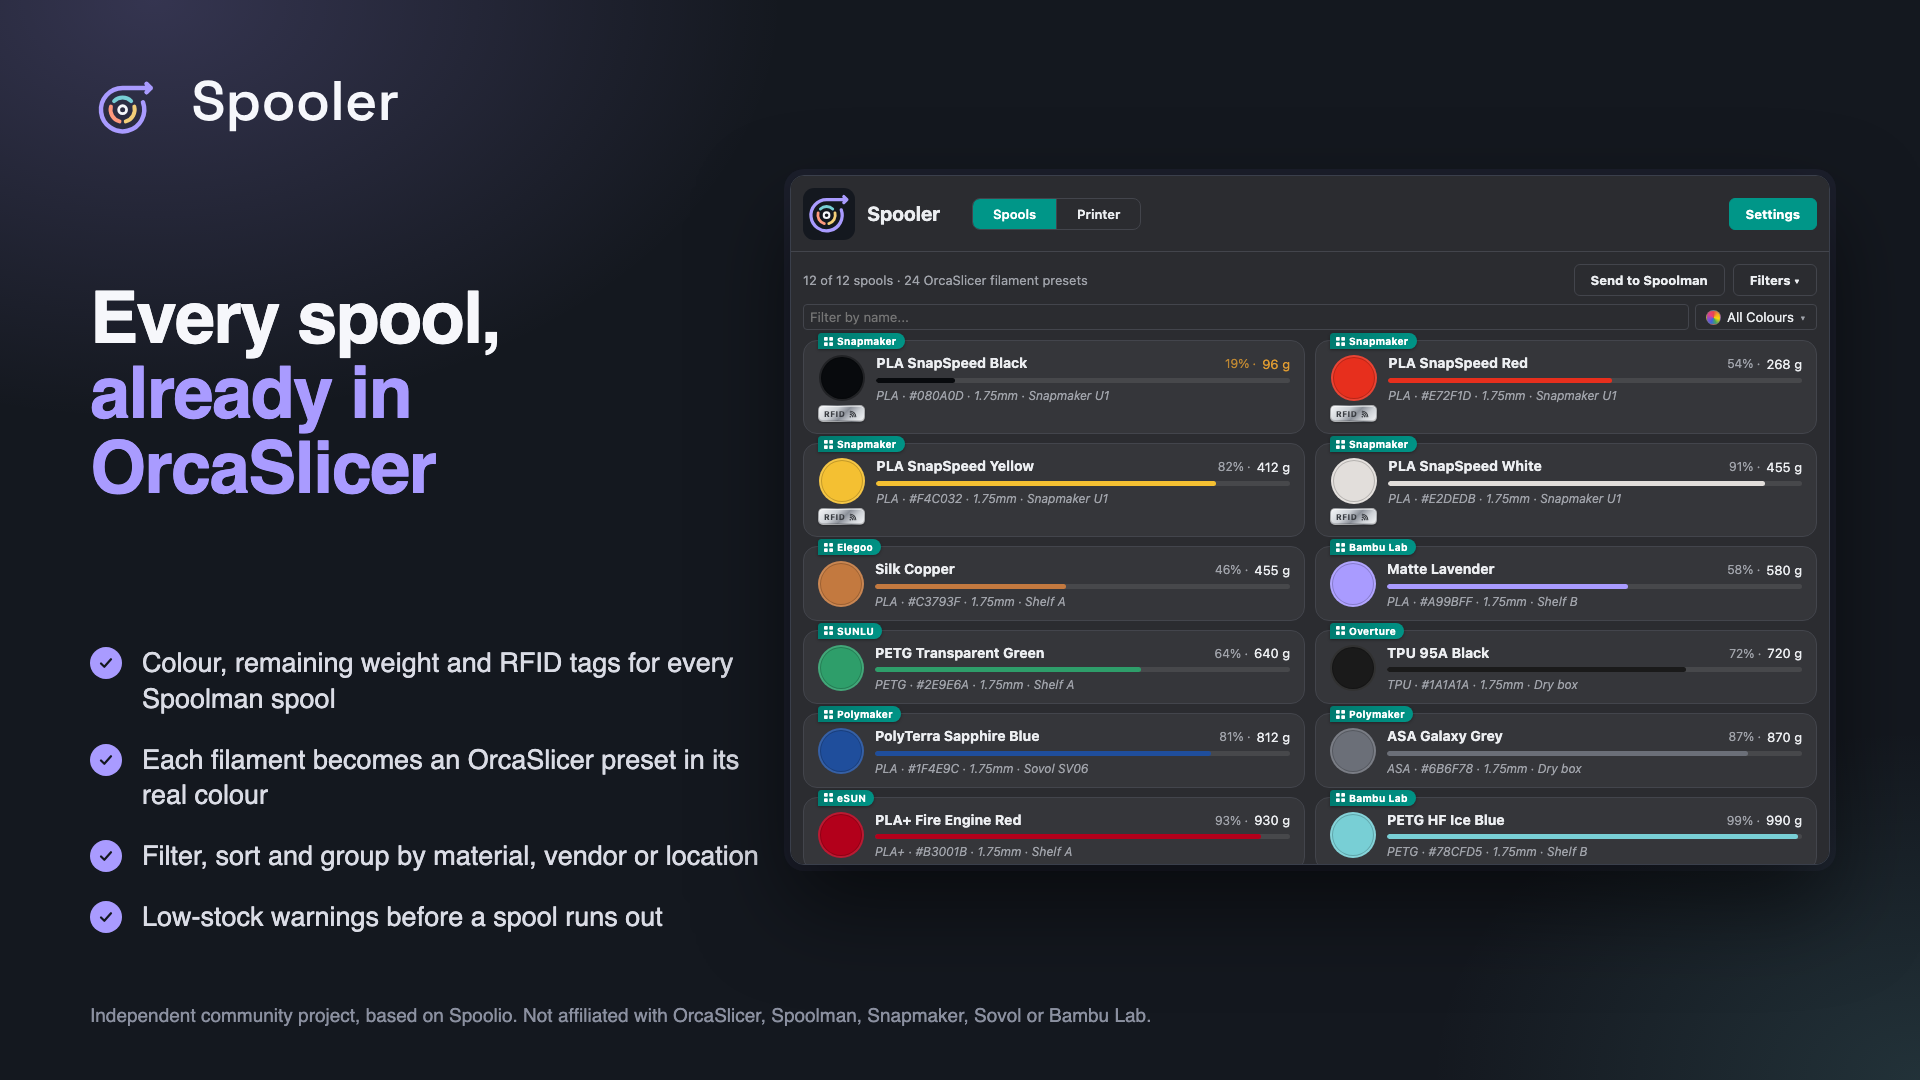
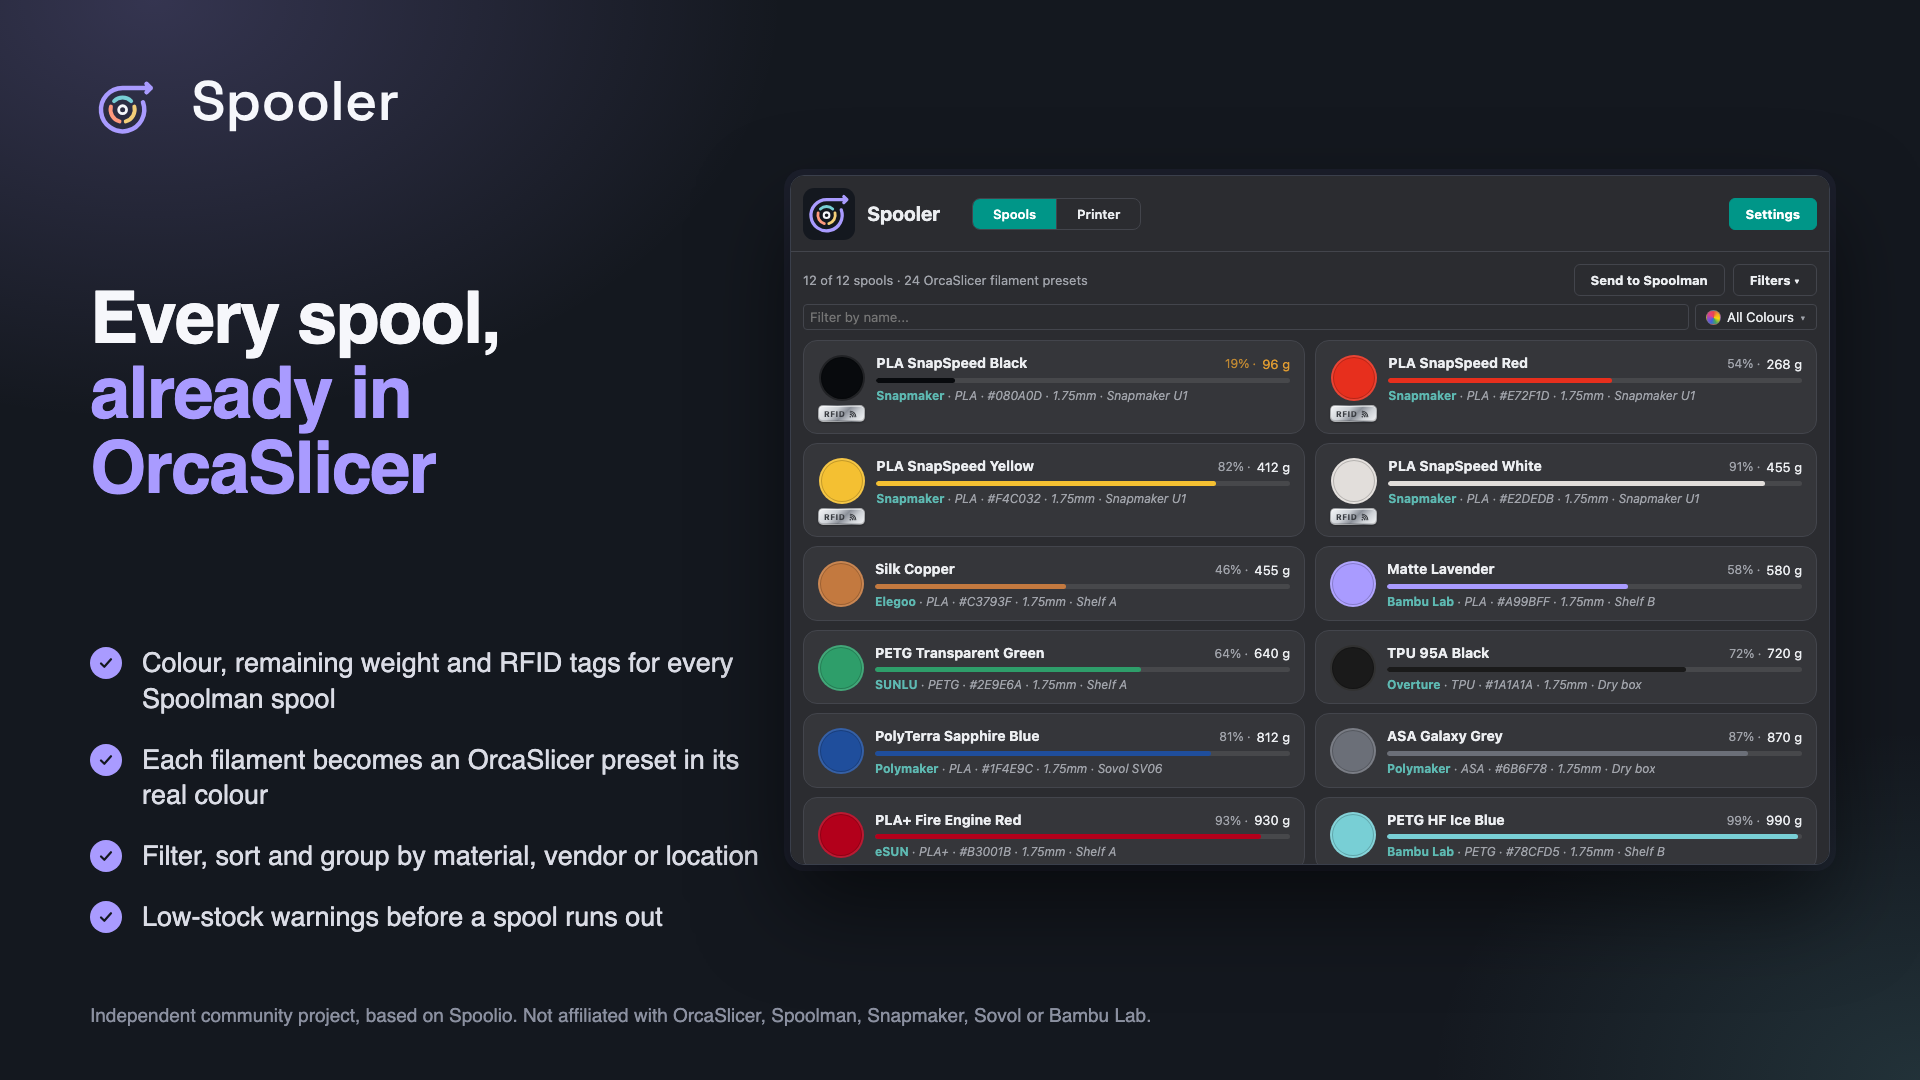
feat: one card for single spools and groups, manufacturer inside the card (0.12.1)

diff --git a/plugin/spooler/spooler_any.py b/plugin/spooler/spooler_any.py
@@ -6,7 +6,7 @@
 # name = "Spooler"
 # description = "Spoolman inventory for OrcaSlicer: auto-synced filament profiles and live printer slots"
 # author = "bloodf (fork of Spoolio by Dan J Moore)"
-# version = "0.12.0"
+# version = "0.12.1"
 # ///
 
 import asyncio
@@ -48,7 +48,7 @@ except (ImportError, AttributeError):
 _SLICING = hasattr(getattr(orca, "slicing", None), "SlicingPipelineCapabilityBase")
 
 PLUGIN_NAME = "Spooler"
-PLUGIN_VERSION = "0.12.0"
+PLUGIN_VERSION = "0.12.1"
 # Stamped per operating system by scripts/build.py.
 BUILD_TARGET = "any"
 
@@ -4070,20 +4070,7 @@ MAIN_PAGE = """
     padding: 13px 14px 11px;
     margin-bottom: 9px;
   }
-  .spool-tag {
-    position: absolute; top: -8px; left: 14px;
-    display: flex; align-items: center; gap: 4px;
-    max-width: calc(100% - 28px);
-    padding: 2px 8px 2px 6px;
-    border-radius: 4px 9px 9px 0;
-    background: var(--orca-accent);
-    background: linear-gradient(135deg, color-mix(in srgb, var(--orca-accent) 80%, black), var(--orca-accent));
-    color: var(--orca-accent-fg);
-    font-size: 10px; font-weight: 700; letter-spacing: 0.02em;
-    box-shadow: 0 1px 3px rgba(0, 0, 0, 0.35);
-  }
-  .spool-tag span { overflow: hidden; text-overflow: ellipsis; white-space: nowrap; }
-  .spool-tag svg { width: 9px; height: 9px; flex-shrink: 0; }
+  .spool-vendor { font-style: normal; font-weight: 700; color: color-mix(in srgb, var(--orca-accent) 60%, var(--orca-fg) 40%); }
   .spool-body { display: flex; gap: 11px; align-items: flex-start; }
   .spool-swatch-col {
     display: flex; flex-direction: column; align-items: center; gap: 4px;
@@ -4130,14 +4117,25 @@ MAIN_PAGE = """
   }
   .head-card .head-line { font-style: normal; margin-top: 2px; }
   .head-card .head-preset { opacity: 0.8; font-style: italic; }
-  .group.stack > .group-card {
-    background: var(--orca-border); border-radius: 8px; padding: 10px 12px; margin-bottom: 6px;
+  .stack-head { cursor: pointer; }
+  .stack-head:hover, .stack-head:focus-visible { border-color: color-mix(in srgb, var(--orca-accent) 55%, var(--orca-border) 45%); outline: none; }
+  .stack-head .spool-swatch { position: relative; box-shadow: 4px -3px 0 -1px color-mix(in srgb, var(--orca-fg) 14%, var(--orca-bg) 86%), inset 0 0 0 1px rgba(0, 0, 0, 0.2); }
+  .stack-count {
+    position: absolute; right: -6px; bottom: -4px; min-width: 18px; height: 18px; padding: 0 5px;
+    border-radius: 99px; background: var(--orca-accent); color: var(--orca-accent-fg);
+    font-size: 10px; font-weight: 800; line-height: 18px; text-align: center; box-shadow: 0 0 0 2px var(--orca-bg);
   }
-  .group.stack > .group-card .cdot { width: 28px; height: 28px; }
-  .group.stack > .group-card .group-name { font-size: 14px; }
-  .group-card .group-bar { width: auto; min-width: 90px; max-width: 45%; }
-  .group-card .group-bar .group-meta { white-space: nowrap; }
-  .group.stack > .group-items { padding-left: 14px; border-left: 2px solid var(--orca-border); margin: 0 0 8px 12px; }
+  .stack-arrow { display: inline-flex; color: var(--orca-muted); transition: transform 0.15s ease; }
+  .stack-arrow svg { width: 14px; height: 14px; }
+  .group.stack:not(.collapsed) .stack-arrow { transform: rotate(90deg); color: var(--orca-accent); }
+  .group.stack { margin-bottom: 0; }
+  .group.stack:not(.collapsed) {
+    margin-bottom: 9px; padding: 6px 6px 0; border-radius: 17px;
+    background: color-mix(in srgb, var(--orca-fg) 3%, var(--orca-bg) 97%);
+    border: 1px solid color-mix(in srgb, var(--orca-accent) 35%, var(--orca-border) 65%);
+  }
+  .group.stack:not(.collapsed) > .stack-head { border-color: transparent; background: transparent; margin-bottom: 4px; }
+  .group.stack > .group-items { padding: 0 6px; }
   .spool-dup {
     margin-left: 8px; padding: 1px 8px; border-radius: 99px; vertical-align: middle;
     border: 1px solid var(--orca-border); color: var(--orca-muted);
@@ -4209,9 +4207,13 @@ MAIN_PAGE = """
   .group-card .group-bar-fill.low { background: #d9534f; }
   .group-items { padding-left: 4px; }
   .group.collapsed .group-items { display: none; }
-  #list.cols-2, #list.cols-2 .group-items { display: grid; grid-template-columns: repeat(2, minmax(0, 1fr)); column-gap: 10px; align-items: start; }
-  #list.cols-2 > .group, #list.cols-2 > .empty, #list.cols-2 .group.stack { grid-column: 1 / -1; }
+  #list.cols-2, #list.cols-2 .group-items { display: grid; grid-template-columns: repeat(2, minmax(0, 1fr)); column-gap: 10px; align-items: stretch; }
+  #list.cols-2 > .group:not(.stack), #list.cols-2 > .empty, #list.cols-2 .group.stack:not(.collapsed) { grid-column: 1 / -1; }
   #list.cols-2 .group.collapsed .group-items { display: none; }
+  #list.cols-2 { align-items: stretch; }
+  #list.cols-2 > .spool-card, #list.cols-2 .group-items > .spool-card { box-sizing: border-box; }
+  #list.cols-2 > .group.stack.collapsed { display: flex; flex-direction: column; }
+  #list.cols-2 > .group.stack.collapsed > .stack-head { flex: 1; }
   @media (max-width: 640px) { #list.cols-2, #list.cols-2 .group-items { grid-template-columns: minmax(0, 1fr); } }
   .tabs { display: inline-flex; margin: 0 0 12px; border: 1px solid var(--orca-border); border-radius: 8px; overflow: hidden; }
   .tabs[hidden], #page-spools[hidden], #page-printer[hidden], #page-stats[hidden] { display: none; }
@@ -5682,6 +5684,7 @@ MAIN_PAGE = """
       const material = filament.material || "";
       const vendorName = vendor.name || "";
       const subtitleParts = [];
+      if (vendorName && shown("vendor")) subtitleParts.push('<span class="spool-vendor">' + esc(vendorName) + '</span>');
       if (material && shown("material")) subtitleParts.push(esc(material));
       if (filament.color_hex && shown("colour_code")) subtitleParts.push("#" + esc(filament.color_hex.replace(/^#/, "").toUpperCase()));
       if (typeof filament.diameter === "number" && shown("diameter")) subtitleParts.push(filament.diameter + "mm");
@@ -5708,17 +5711,6 @@ MAIN_PAGE = """
       const chipHtml = (plateLabel ? '<span class="plate-chip">On This Plate \u00b7 ' + plateLabel + '</span>' : '') +
         (where ? '<span class="use-chip" title="Loaded in ' + esc(where) + '">In Use \u00b7 ' + esc(where) + '</span>' : '');
       const percentTitle = percent === null ? "Remaining unknown" : percent + "% remaining";
-      const tagHtml = vendorName && shown("vendor")
-        ? '<div class="spool-tag">' +
-            '<svg viewBox="0 0 12 12" fill="currentColor">' +
-              '<rect x="0" y="0" width="5" height="5" rx="1"></rect>' +
-              '<rect x="7" y="0" width="5" height="5" rx="1"></rect>' +
-              '<rect x="0" y="7" width="5" height="5" rx="1"></rect>' +
-              '<rect x="7" y="7" width="5" height="5" rx="1"></rect>' +
-            '</svg>' +
-            '<span>' + esc(vendorName) + '</span>' +
-          '</div>'
-        : '';
       const tip = [name, vendorName, remainingLabel + (typeof original === "number" ? " of " + formatWeight(original) : "") + " left"].filter(Boolean).join(" \u00b7 ");
       const tint = lowTint(remaining);
       const searchQuery = [vendorName, s.lot_nr || name].filter(Boolean).join(" ");
@@ -5743,7 +5735,6 @@ MAIN_PAGE = """
         : '';
       return (
         '<div class="spool-card" title="' + tip.replace(/"/g, "&quot;") + '">' +
-          tagHtml +
           '<div class="spool-body">' +
             '<div class="spool-swatch-col">' +
               '<div class="spool-swatch" style="background:' + color + ring + '"></div>' +
@@ -5796,6 +5787,7 @@ MAIN_PAGE = """
         : wMode === "percent" ? (percent === null ? remainingLabel : percentLabel)
         : remainingLabel + ' \\u00b7 ' + percentLabel;
       const subLabel = [group.sub, count].filter(Boolean).join(" \\u00b7 ");
+      if (stack) return stackHtml(group, collapsed, percent, remainingLabel, count);
       return (
         '<div class="group' + (stack ? " stack" : "") + (collapsed ? " collapsed" : "") + '" data-key="' + esc(group.key) + '">' +
           '<div class="group-card" role="button" tabindex="0" aria-expanded="' + !collapsed + '">' +
@@ -5810,6 +5802,45 @@ MAIN_PAGE = """
           '</div>' +
           '<div class="group-items">' + (stack ? group.items.map(function (s) { return spoolRowHtml(s, true); }).join("")
             : listHtml(group.items)) + '</div>' +
+        '</div>'
+      );
+    }
+
+    // A stack looks like a single spool's card: same swatch, title, weight, bar and detail line,
+    // with the number of spools on the swatch and an arrow to open it.
+    function stackHtml(group, collapsed, percent, remainingLabel, count) {
+      const f = group.items[0].filament || {};
+      const vendorName = (f.vendor || {}).name || "";
+      const parts = [];
+      if (vendorName && shown("vendor")) parts.push('<span class="spool-vendor">' + esc(vendorName) + '</span>');
+      if (f.material && shown("material")) parts.push(esc(f.material));
+      parts.push(count);
+      if (group.used) parts.push(group.used + " in use");
+      const wHtml = percent === null || wMode === "grams" ? remainingLabel
+        : wMode === "percent" ? percent + "%"
+        : '<span class="spool-pct">' + percent + '% \u00b7</span>' + remainingLabel;
+      const ring = swatchCols(f).length > 1 ? ";border-color:" + swatchMain(f) : "";
+      return (
+        '<div class="group stack' + (collapsed ? " collapsed" : "") + '" data-key="' + esc(group.key) + '">' +
+          '<div class="spool-card stack-head" role="button" tabindex="0" aria-expanded="' + !collapsed + '">' +
+            '<div class="spool-body">' +
+              '<div class="spool-swatch-col"><div class="spool-swatch" style="background:' + group.color + ring + '">' +
+                '<span class="stack-count">' + group.items.length + '</span></div></div>' +
+              '<div class="spool-main">' +
+                '<div class="spool-top">' +
+                  '<div class="spool-title">' + esc(group.label) + '</div>' +
+                  '<div class="spool-weight">' + wHtml +
+                    '<span class="stack-arrow"><svg viewBox="0 0 24 24" fill="none" stroke="currentColor" stroke-width="2.4" stroke-linecap="round" stroke-linejoin="round"><path d="M9 6l6 6-6 6"></path></svg></span>' +
+                  '</div>' +
+                '</div>' +
+                (shown("bar") ? '<div class="spool-bar-track" title="' + (percent === null ? "Remaining unknown" : percent + "% remaining") + '">' +
+                  '<div class="spool-bar-fill" style="width:' + (percent === null ? 0 : percent) + '%;background:' + swatchMain(f) + '"></div>' +
+                '</div>' : '') +
+                '<div class="spool-subtitle"><span class="sub-text">' + parts.join(" \u00b7 ") + '</span></div>' +
+              '</div>' +
+            '</div>' +
+          '</div>' +
+          '<div class="group-items">' + group.items.map(function (s) { return spoolRowHtml(s, true); }).join("") + '</div>' +
         '</div>'
       );
     }
@@ -5841,9 +5872,7 @@ MAIN_PAGE = """
         if (items.length < 2) return spoolRowHtml(items[0]);
         const f = items[0].filament || {};
         const group = {
-          key: e[0], label: f.name || ("Spool #" + items[0].id), items: items, color: swatch(f),
-          sub: [shown("vendor") ? (f.vendor || {}).name : "", shown("material") ? f.material : "",
-            used ? used + " in use" : ""].filter(Boolean).join(" \u00b7 "),
+          key: e[0], label: f.name || ("Spool #" + items[0].id), items: items, color: swatch(f), used: used,
         };
         return groupRowHtml(group, !openStacks.has(group.key), true);
       }).join("");
@@ -5856,7 +5885,8 @@ MAIN_PAGE = """
       if (set.has(key)) set.delete(key); else set.add(key);
       const collapsed = groupEl.classList.toggle("collapsed");
       card.setAttribute("aria-expanded", String(!collapsed));
-      card.querySelector(".arrow").innerHTML = collapsed ? "&#9656;" : "&#9662;";
+      const arrow = card.querySelector(".arrow");
+      if (arrow) arrow.innerHTML = collapsed ? "&#9656;" : "&#9662;";
     }
 
     function renderGrouped(spools, mode) {
@@ -5972,7 +6002,7 @@ MAIN_PAGE = """
     });
 
     listEl.addEventListener("keydown", function (e) {
-      const card = e.target.closest(".group-card");
+      const card = e.target.closest(".group-card, .stack-head");
       if (card && (e.key === "Enter" || e.key === " ")) { e.preventDefault(); toggleGroup(card); }
     });
 
@@ -5993,7 +6023,7 @@ MAIN_PAGE = """
     });
 
     listEl.addEventListener("click", function (e) {
-      const card = e.target.closest(".group-card");
+      const card = e.target.closest(".group-card, .stack-head");
       if (card) { toggleGroup(card); return; }
       const btn = e.target.closest(".spool-cart");
       if (btn) {

diff --git a/tests/test_display.py b/tests/test_display.py
@@ -144,6 +144,13 @@ console.log(JSON.stringify({{list, card}}));
         self.assertIn("In Use · U1 · T1", out["list"])
         self.assertLess(out["list"].index("980 g"), out["list"].index("400 g"))  # spool 2 is loaded: first
 
+    def test_groups_and_single_spools_share_one_card(self):
+        out = self.run_page(self.scenario({}))["list"]
+        self.assertNotIn("spool-tag", out)  # no manufacturer badge on top of the card
+        self.assertIn('class="spool-card stack-head"', out)
+        self.assertEqual(out.count('<span class="spool-vendor">Acme</span>'), 3)  # group and both spools
+        self.assertIn('<span class="stack-count">2</span>', out)
+
     def test_slot_card_has_the_spools_details(self):
         card = self.run_page(self.scenario({}))["card"]
         for text in ("Acme", "PLA", "#111111", "980 g of 1,000 g left", "Spool #2", "Shelf B",

diff --git a/CHANGELOG.md b/CHANGELOG.md
@@ -3,6 +3,16 @@
 Spooler is a fork of [Spoolio](https://github.com/danm1989/spoolio-orcaslicer); entries before
 0.9.0 are Spoolio's.
 
+## [0.12.1] - Unreleased
+
+### Changed
+- Spool cards are redrawn: a group of spools of the same filament now looks exactly like a single
+  spool's card (swatch, name, weight, bar and detail line), with the number of spools on its swatch
+  and an arrow. Closed, it takes one cell of the grid like any spool; open, it spans the row and
+  shows its spools inside one panel.
+- The manufacturer is part of the card's detail line instead of a badge on top of the card.
+- Cards in the same row of the two-column list have the same height.
+
 ## [0.12.0] - 2026-11-10
 
 ### Added
